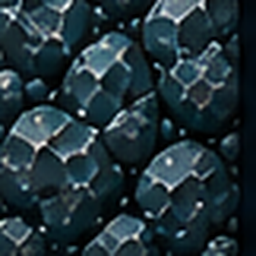
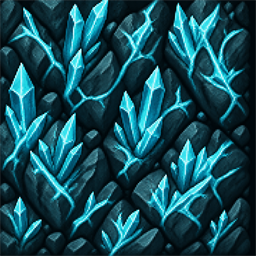
fix: 리튬 광석 타일 텍스처 에셋 수정 (프롬프트 B-66 반영)

diff --git a/init/prompt-B.md b/init/prompt-B.md
@@ -354,3 +354,5 @@ UI 및 건설/가이드 조작
 64. 시설 설치를 진행할 때 다른 시설의 바로 윗 칸이나 엘레베이터가 위치한 검은색 블록 위에서도 설치가 가능하거든? 다른 시설의 바로 윗 칸에는 시설을 설치할 수 없도록 수정하고 엘레베이터가 위치한 검은색 블록에서는 시설을 설치할 수 없도록 해줘 rule.md의 내용을 필수 참고해서 작업을 진행해
 
 65. 현재 심층 구역이 해금이 안되었음에도 36~40m에서 블록을 캘 수 있는 현상이 발생했어 원래는 심층 구역이 해제되지 않은 상황에서는 해당 위치에 해당하는 블록을 캘 수 없어야 하거든? 그래서 심층 구역 해금할때에는 36~40m의 블록을 제거할 수 있도록 하고, 그 전에는 해당 블록을 제거할 수 없음과 함께 제거하려고 하면 "심층 구역이 해금되어야 채굴할 수 있는 자원입니다." 라고 팝업이 뜨도록 수정해줘 rule.md의 내용을 필수 참고해서 작업을 진행해
+
+66. 지금 리튬에 철 에셋이 덮어씌워져가지고 분명히 내가 철처럼 보이는 것을 캔 것 같았는데 알고보니 리튬이더라고 지금 리튬에 씌워져있는 에셋 확인해서 철 에셋으로 덮어씌워진거 있는지 확인해서 철이 덮어씌워진거면 바로 리튬 전용 에셋으로 바꿔줘 rule.md의 내용을 필수 참고해서 작업을 진행해
